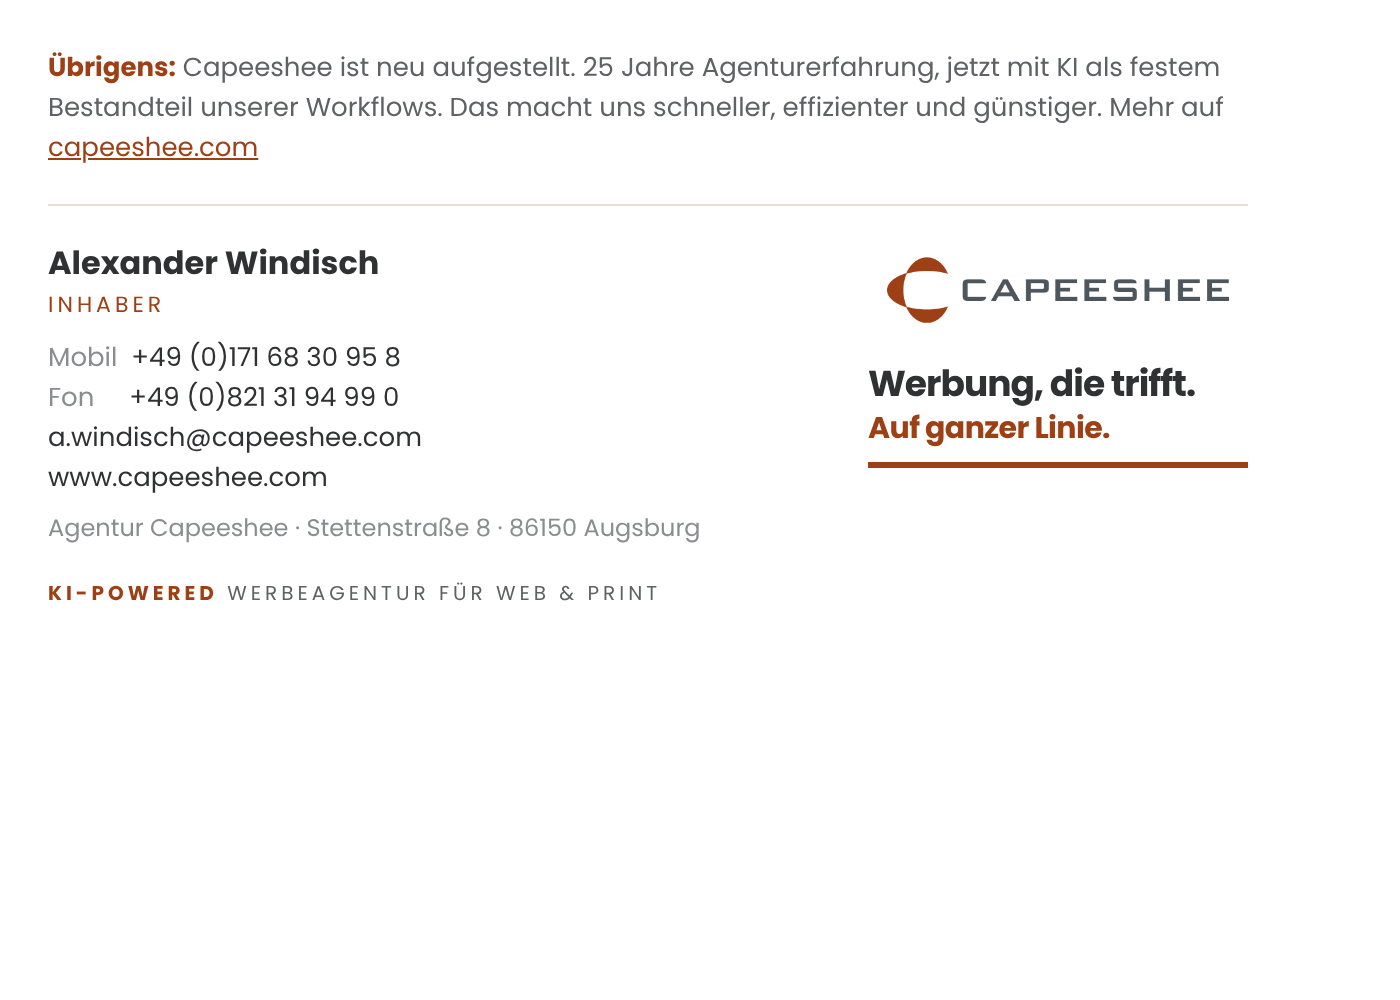
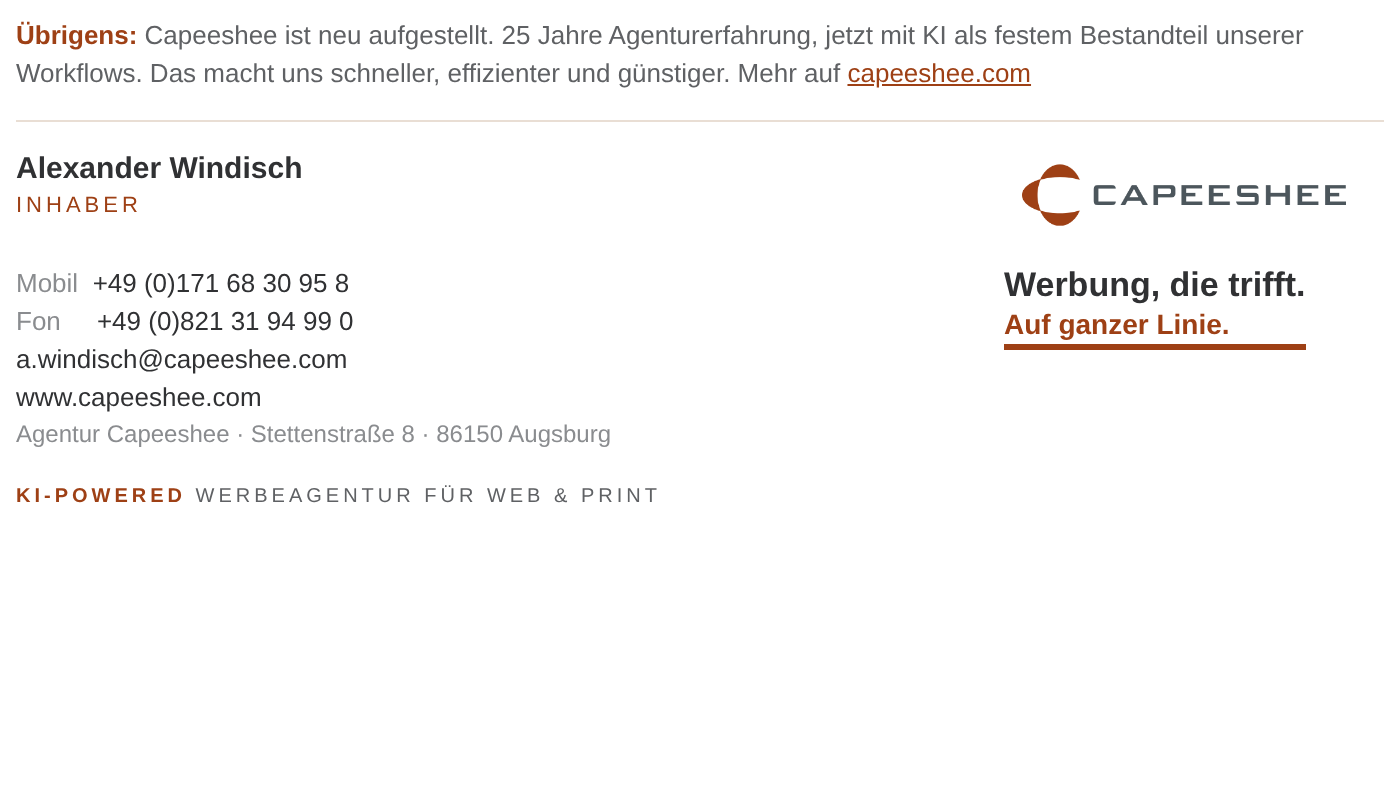
Mail-Signatur für Thunderbird vereinfacht, Textversion
Claude-Session: https://claude.ai/code/session_01BjkEN2Gdq6Ygi9Db6ym7yL

diff --git a/ci/mail/Capeeshee-Mail-Signatur.html b/ci/mail/Capeeshee-Mail-Signatur.html
@@ -1,37 +1,29 @@
-<!doctype html>
-<html lang="de"><head><meta charset="utf-8"><title>Mail-Signatur Capeeshee</title></head>
-<body style="margin:0;padding:24px;background:#ffffff;">
-<!-- Ab hier kopieren: Datei im Browser öffnen, alles markieren (Strg+A), kopieren und in die Signatur-Einstellung einfügen -->
-<table role="presentation" cellpadding="0" cellspacing="0" border="0" style="border-collapse:collapse;max-width:600px;width:100%;font-family:Poppins,Arial,Helvetica,sans-serif;color:#303133;">
-  <tr><td style="padding:0 0 18px 0;font-size:13px;line-height:20px;color:#5f6164;">
-    <strong style="color:#9e4015;">Übrigens:</strong> Capeeshee ist neu aufgestellt. 25 Jahre Agenturerfahrung, jetzt mit KI als festem Bestandteil unserer Workflows. Das macht uns schneller, effizienter und günstiger. Mehr auf <a href="https://capeeshee.com/" style="color:#9e4015;text-decoration:underline;">capeeshee.com</a>
-  </td></tr>
-  <tr><td style="border-top:1px solid #e9ded4;padding:18px 0 0 0;">
-    <table role="presentation" cellpadding="0" cellspacing="0" border="0" style="border-collapse:collapse;width:100%;">
-      <tr>
-        <td valign="top" style="padding:0 16px 0 0;font-size:13px;line-height:20px;color:#5f6164;">
-          <div style="font-size:16px;line-height:22px;font-weight:bold;color:#303133;">Alexander Windisch</div>
-          <div style="font-size:11px;line-height:18px;letter-spacing:2px;text-transform:uppercase;color:#9e4015;padding-bottom:8px;">Inhaber</div>
-          <div><span style="color:#8a8c8f;">Mobil</span>&nbsp; <a href="tel:+491716830958" style="color:#303133;text-decoration:none;">+49 (0)171 68 30 95 8</a></div>
-          <div><span style="color:#8a8c8f;">Fon</span>&nbsp;&nbsp;&nbsp;&nbsp; <a href="tel:+498213194990" style="color:#303133;text-decoration:none;">+49 (0)821 31 94 99 0</a></div>
-          <div><a href="mailto:a.windisch@capeeshee.com" style="color:#303133;text-decoration:none;">a.windisch@capeeshee.com</a></div>
-          <div><a href="https://capeeshee.com/" style="color:#303133;text-decoration:none;">www.capeeshee.com</a></div>
-          <div style="font-size:12px;color:#8a8c8f;padding-top:6px;">Agentur Capeeshee · Stettenstraße 8 · 86150 Augsburg</div>
-        </td>
-        <td valign="top" align="right" style="padding:0;width:200px;">
-          <a href="https://capeeshee.com/" style="text-decoration:none;"><img src="https://capeeshee.com/img/logo-capeeshee.png" width="190" alt="Agentur Capeeshee" style="display:block;width:190px;max-width:190px;height:auto;border:0;"></a>
-          <div style="padding-top:14px;text-align:left;margin-left:10px;">
-            <div style="font-size:18px;line-height:20px;font-weight:bold;color:#303133;letter-spacing:-0.5px;">Werbung, die trifft.</div>
-            <div style="font-size:15px;line-height:20px;font-weight:bold;color:#9e4015;letter-spacing:-0.3px;padding-top:2px;">Auf ganzer Linie.</div>
-            <div style="height:3px;line-height:3px;font-size:0;background:#9e4015;margin-top:6px;">&nbsp;</div>
-          </div>
-        </td>
-      </tr>
-    </table>
-  </td></tr>
-  <tr><td style="padding:14px 0 0 0;font-size:10px;line-height:16px;letter-spacing:2px;text-transform:uppercase;color:#5f6164;">
-    <strong style="color:#9e4015;">KI-powered</strong> Werbeagentur für Web &amp; Print
-  </td></tr>
+<html><head><meta charset="utf-8"></head><body>
+<table cellpadding="0" cellspacing="0" border="0" style="border-collapse:collapse;font-family:Arial,Helvetica,sans-serif;">
+<tr><td colspan="2" style="padding:0 0 14px 0;font-family:Arial,Helvetica,sans-serif;font-size:13px;line-height:19px;color:#5f6164;">
+<b style="color:#9e4015;">Übrigens:</b> Capeeshee ist neu aufgestellt. 25 Jahre Agenturerfahrung, jetzt mit KI als festem Bestandteil unserer Workflows. Das macht uns schneller, effizienter und günstiger. Mehr auf <a href="https://capeeshee.com/" style="color:#9e4015;">capeeshee.com</a>
+</td></tr>
+<tr><td colspan="2" height="1" bgcolor="#e9ded4" style="height:1px;line-height:1px;font-size:1px;background:#e9ded4;">&nbsp;</td></tr>
+<tr>
+<td valign="top" style="padding:14px 30px 0 0;font-family:Arial,Helvetica,sans-serif;font-size:13px;line-height:19px;color:#303133;">
+<b style="font-size:15px;">Alexander Windisch</b><br>
+<span style="font-size:11px;letter-spacing:2px;color:#9e4015;">INHABER</span><br><br>
+<span style="color:#8a8c8f;">Mobil</span>&nbsp;&nbsp;<a href="tel:+491716830958" style="color:#303133;text-decoration:none;">+49 (0)171 68 30 95 8</a><br>
+<span style="color:#8a8c8f;">Fon</span>&nbsp;&nbsp;&nbsp;&nbsp;&nbsp;<a href="tel:+498213194990" style="color:#303133;text-decoration:none;">+49 (0)821 31 94 99 0</a><br>
+<a href="mailto:a.windisch@capeeshee.com" style="color:#303133;text-decoration:none;">a.windisch@capeeshee.com</a><br>
+<a href="https://capeeshee.com/" style="color:#303133;text-decoration:none;">www.capeeshee.com</a><br>
+<span style="font-size:12px;color:#8a8c8f;">Agentur Capeeshee · Stettenstraße 8 · 86150 Augsburg</span>
+</td>
+<td valign="top" style="padding:14px 0 0 0;width:190px;">
+<a href="https://capeeshee.com/"><img src="https://capeeshee.com/img/logo-capeeshee.png" width="180" height="45" alt="Agentur Capeeshee" style="display:block;border:0;width:180px;height:45px;"></a>
+<table cellpadding="0" cellspacing="0" border="0" style="border-collapse:collapse;margin-top:12px;">
+<tr><td style="font-family:Arial,Helvetica,sans-serif;font-size:17px;line-height:21px;font-weight:bold;color:#303133;">Werbung, die trifft.</td></tr>
+<tr><td style="font-family:Arial,Helvetica,sans-serif;font-size:14px;line-height:19px;font-weight:bold;color:#9e4015;">Auf ganzer Linie.</td></tr>
+<tr><td height="3" bgcolor="#9e4015" style="height:3px;line-height:3px;font-size:1px;background:#9e4015;">&nbsp;</td></tr>
 </table>
-<!-- Bis hier kopieren -->
+</td></tr>
+<tr><td colspan="2" style="padding:14px 0 0 0;font-family:Arial,Helvetica,sans-serif;font-size:10px;line-height:15px;letter-spacing:2px;color:#5f6164;">
+<b style="color:#9e4015;">KI-POWERED</b> WERBEAGENTUR FÜR WEB &amp; PRINT
+</td></tr>
+</table>
 </body></html>
